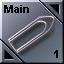
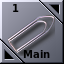
Converted clip to rst, refreshed images

diff --git a/docs/guidedtour/clip.rst b/docs/guidedtour/clip.rst
@@ -1,0 +1,102 @@
+---
+layout: default
+title: Guided Tour - Clip
+---
+
+CLIP
+====
+
+By default, The clip is represented by the icon on the top left of the screen
+containing a paperclip image.
+
+.. figure:: images/clip.png
+   :alt: Clip icon
+   :figclass: borderless
+
+The clip's primary function is to serve as a workspace-specific dock. In other
+words, applications may be attached to the clip just as they are to the dock,
+but the clip and its associated applications are specific to each individual
+workspace - not available on all workspaces as they are on the dock.
+
+The clip's secondary function is to act as a "pager" - a utility for changing
+from one workspace to another (paging). The arrows at the top right and bottom
+left corners of the clip icon allow you to switch from one workspace to the
+next workspace (top right) or previous workspace (bottom left).
+
+The current workspace name (if any) and number are displayed on the
+clip.
+
+The clip also has a number of menu-driven features.
+
+Clip Menu
+---------
+
+Right-clicking the clip displays a menu.
+
+.. figure:: images/menu_clip.png
+   :alt: Clip menu
+   :figclass: borderless
+
+   Clip menu
+
+Clip Options
+------------
+
+The first menu item allows you to select clip options. The following options
+are available:
+
+- *Keep on top* - do not allow windows to cover the clip.
+- *Collapsed* - icons attached to the clip are hidden until you left-click the
+  clip, which unhides them.
+- *Autocollapse* - same as the previous option, except that mouseing over the
+  clip unhides application icons.
+- *Autoraise* - clicking an icon representing a window hidden under a larger
+  window brings that window to the front.
+- *Autoattract icons* - selecting this option attracts the icon of any
+  application launched on the current workspace. Closing the application
+  removes the icon from the clip.
+
+Rename Workspace
+----------------
+
+This item gives you to ability to name (or rename) the current workspace.
+
+Some users tend to group certain applications by workspace and like to name the
+workspace to indicate the nature of the applications on the clip. For example,
+a user might have a browser, an IRC client, and a file transfer application
+clipped on a workspace, and might name that workspace "internet" to indicate
+the workspace's primary function. The user might have a seperate workspace with
+a vector graphics application, an image manipulation application, and an image
+viewer on the clip, and might name that workspace "graphics."
+
+Other Options
+-------------
+
+Right-clicking a clipped application's icon gives options specific to that
+application.
+
+- You may make the application's icon *omnipresent* (clipped on all
+  workspaces).
+
+- You may *select* one or all clipped icons.
+
+- You may *move* one or all icons to a different workspace.
+
+- You may *remove* the icon.
+
+- You may instruct Window Maker to have all icons *attracted* to the clip as
+  soon as each application is launched, rather than placing them initially in
+  the defined location on the display.
+
+The remaining clip menu items are similar to those of the `Dock application
+icon menu <dock.html#conf>`_. As with the dock, clipped applications may be
+launched, hidden, or killed and their settings (icon used, application launch
+path/arguments, middle-click launch) may be modified.
+
+From version 0.80.0 on, the clip can "steal" appicons. This feature has nothing
+to do with autoattracting icons. When you start an application from somewhere
+other than either the clip or the dock (i.e., from the menu or a terminal), and
+the application is already either docked or clipped, a new application icon
+does not appear at the bottom of your screen. The icon that is already docked
+or clipped "steals" the icon function. As a result, the icon for the
+newly-launched application is the icon already on the clip or the dock.
